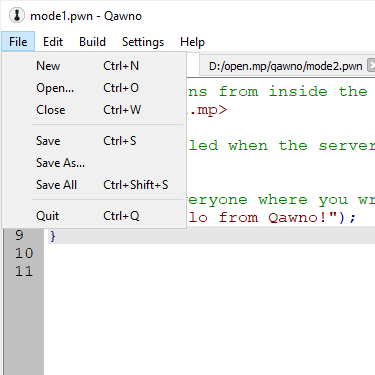
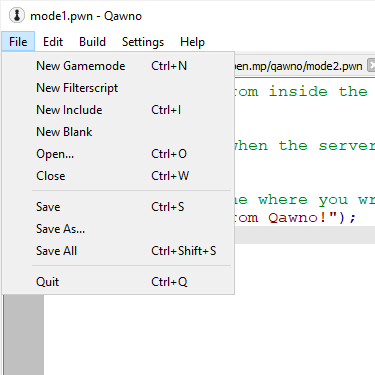
Document the new new file types.

diff --git a/README.md b/README.md
@@ -35,7 +35,10 @@ Provides visual access to all the editor features and options.
 
 ![The File menu.](documentation/menu-file.png)
 
-* *New* - Start a new file in a new tab (shown in area ***3***).
+* *New Gamemode* - Start a new file in a new tab (shown in area ***3***).  This is the default *new* action (`Ctrl+N`) and creates (*scaffolds*) a basic file for writing a gamemode (also known as a *main script*).
+* *New Filterscript* - Start a new file in a new tab.  Scaffolds a filterscript (*side script*), which are feature script that run along-side the main script.
+* *New Include* - Start a new file in a new tab.  Scaffolds an include, a file that provides functions and features that can be used inside other scripts.  `Ctrl+I` as it is actually the new file type that should be created the most, to fully divide a mode in to multiple files.
+* *New Blank* - Start a new blank file in a new tab.
 * *Open* - Open an existing file in a new tab (or the initial tab if the program was just started).
 * *Close* - Close the current file in the current tab.  Will prompt you to save it if the code has been changed.
 * *Save* - Save the current file in the current tab.  Will do *Save As* for new files.
